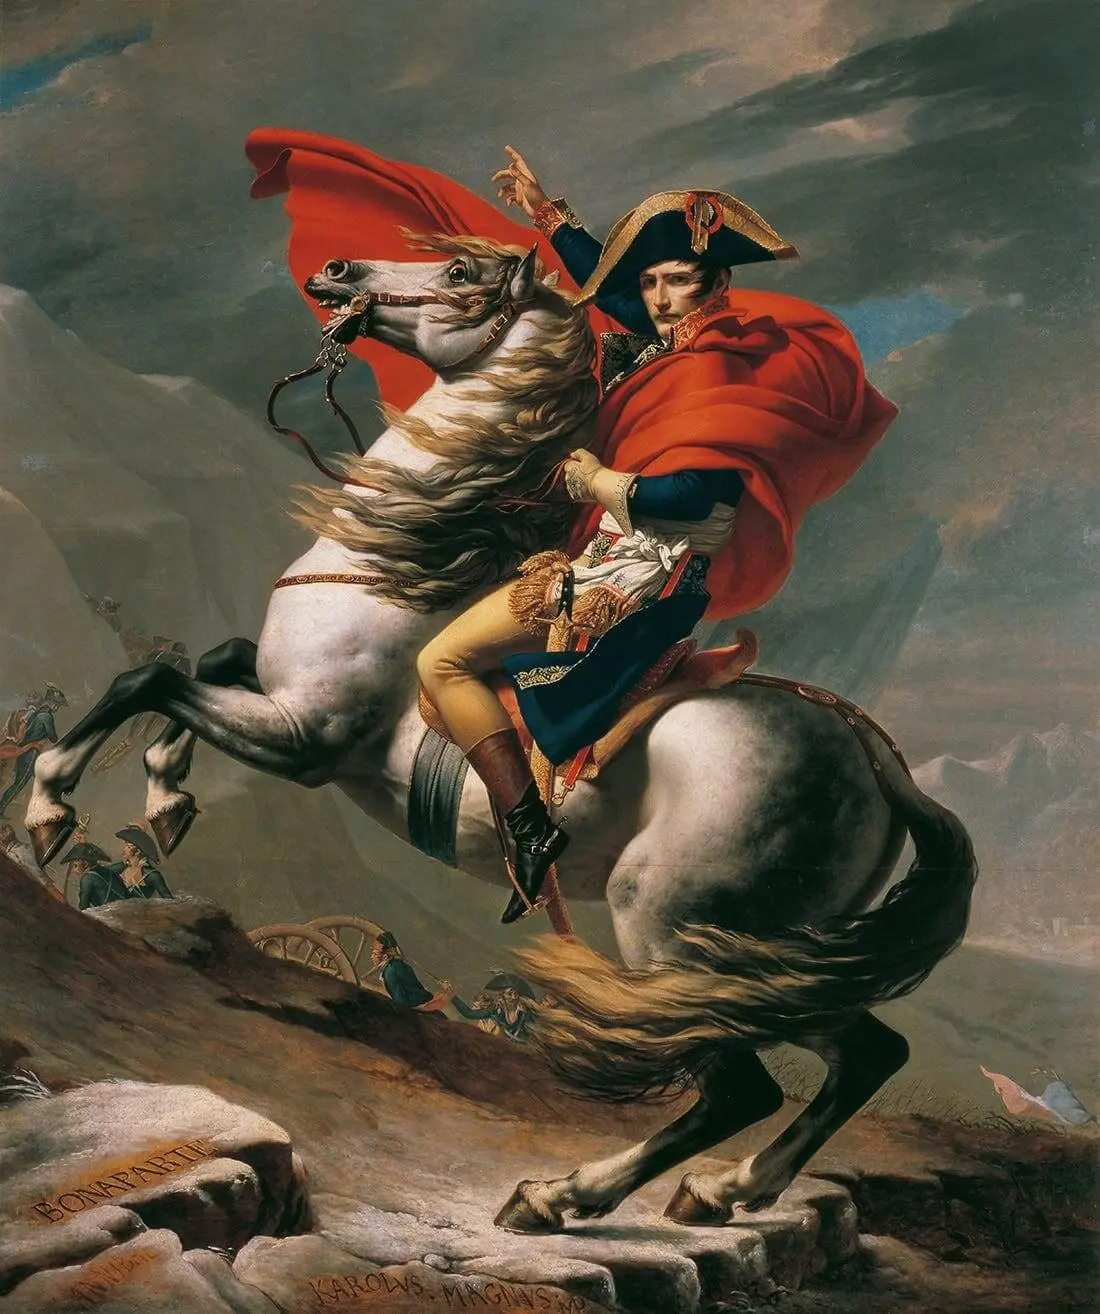
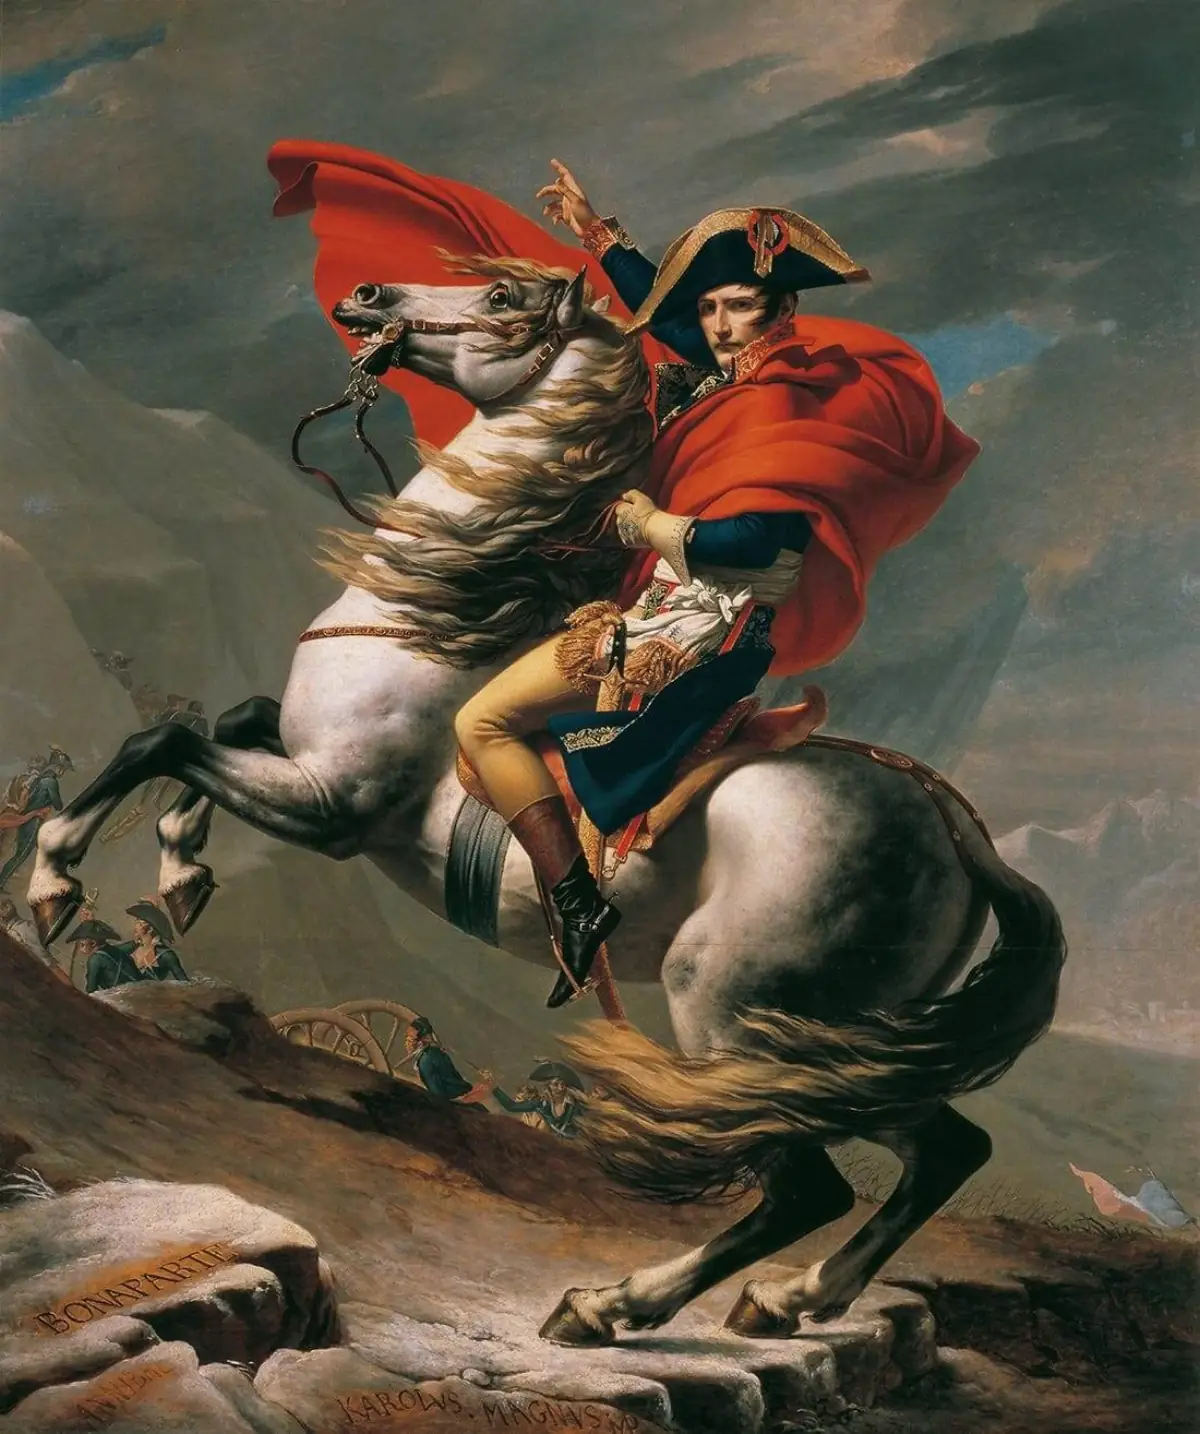
Islands architecture: static Hero, deferred gallery, lazy Studio
Break the monolithic App.svelte island into proper Astro islands for
Lighthouse performance. Hero is now static Astro HTML (zero JS),
ExampleGallery defers hydration until visible (client:visible), and
Studio is dynamically imported only after image upload.

- Convert Hero from Svelte to Astro component (0 KB JS shipped)
- Create StudioMount.svelte as thin client:load watcher that
  dynamically imports Studio on demand
- Move page-level drag/drop to an Astro inline script with
  CustomEvent bridge to UploadBox island
- Add fetchpriority="high" to LCP gallery image
- Preload first gallery image (napoleon.webp) in document head
- Defer PostHog initialization to after page load
- Recompress gallery WebP images from originals at q70
  (napoleon -21%, wave -15%, adam -15%, crows -12%, whaam -5%)
- Add bun as required package manager in CLAUDE.md

Initial JS payload drops from ~100KB (entire app) to ~35KB
(runtime + store + tiny islands). ExampleGallery (~7KB) loads
on scroll. Studio (~35KB) loads on image upload.

diff --git a/src/components/StudioMount.svelte b/src/components/StudioMount.svelte
@@ -1,0 +1,64 @@
+<script lang="ts">
+  import { store } from '../lib/store.svelte'
+
+  let showStudio = $state(false)
+  let transitioning = $state(false)
+  let Studio: any = $state(null)
+
+  $effect(() => {
+    if (store.image && !showStudio && !transitioning) {
+      transitioning = true
+      const landing = document.getElementById('landing')
+      if (landing) {
+        landing.classList.remove('opacity-100', 'scale-100')
+        landing.classList.add('opacity-0', 'scale-[0.98]')
+      }
+      setTimeout(async () => {
+        if (!Studio) {
+          const mod = await import('./studio/Studio.svelte')
+          Studio = mod.default
+        }
+        showStudio = true
+        transitioning = false
+        const landingEl = document.getElementById('landing')
+        if (landingEl) landingEl.classList.add('hidden')
+        window.posthog?.capture('studio_entered', {
+          filename: store.image?.filename,
+          image_width: store.image?.naturalWidth,
+          image_height: store.image?.naturalHeight,
+        })
+      }, 400)
+    }
+    if (!store.image && showStudio) {
+      transitioning = true
+      showStudio = false
+      const landing = document.getElementById('landing')
+      if (landing) {
+        landing.classList.remove('hidden')
+        // Force reflow before removing transition classes
+        landing.offsetHeight
+        landing.classList.remove('opacity-0', 'scale-[0.98]')
+        landing.classList.add('opacity-100', 'scale-100')
+      }
+      setTimeout(() => {
+        transitioning = false
+      }, 300)
+    }
+  })
+</script>
+
+{#if showStudio && Studio}
+  <div class="animate-fade-in">
+    <Studio />
+  </div>
+{/if}
+
+<style>
+  .animate-fade-in {
+    animation: fadeIn 0.5s ease-out;
+  }
+  @keyframes fadeIn {
+    from { opacity: 0; transform: scale(0.98); }
+    to { opacity: 1; transform: scale(1); }
+  }
+</style>

diff --git a/src/components/landing/UploadBox.svelte b/src/components/landing/UploadBox.svelte
@@ -1,13 +1,14 @@
 <script lang="ts">
   import { handleFiles } from '../../lib/upload'
 
-  interface Props {
-    pageDragging?: boolean
-  }
-
-  let { pageDragging = false }: Props = $props()
-
+  let pageDragging = $state(false)
   let fileInput: HTMLInputElement
+
+  $effect(() => {
+    const handler = (e: Event) => { pageDragging = (e as CustomEvent).detail }
+    document.addEventListener('page-drag', handler)
+    return () => document.removeEventListener('page-drag', handler)
+  })
 
   function onClick() {
     fileInput.click()

diff --git a/src/components/landing/ExampleGallery.svelte b/src/components/landing/ExampleGallery.svelte
@@ -136,6 +136,7 @@
                       src={activeItem.image}
                       alt={activeItem.label}
                       draggable="false"
+                      fetchpriority={bpName === 'base' ? 'high' : undefined}
                       class="w-full h-full pointer-events-none ease-out {mounted ? 'transition-all duration-2000' : ''}"
                       style:object-fit={frame.objectFit}
                       style:object-position={showDirected ? frame.objectPosition : 'center'}

diff --git a/CLAUDE.md b/CLAUDE.md
@@ -15,6 +15,7 @@ Read osis/twin.md and the active specs in osis/ before working on any product fe
 - **Static site, no backend.** Everything runs client-side. No accounts, no persistence, no image uploads to a server. Images are blob URLs.
 - **Framework:** Astro with Svelte 5 islands. Tailwind CSS v4 via `@tailwindcss/vite`.
 - **Output is Tailwind class strings.** The tool maps visual manipulations (drag, zoom, pan) to Tailwind utilities scoped per breakpoint. Zero runtime in the consumer's app.
+- **Package manager:** Use `bun` for all commands (`bun run build`, `bun install`, etc.). Do not use `npm`.
 
 ## Design Direction
 
